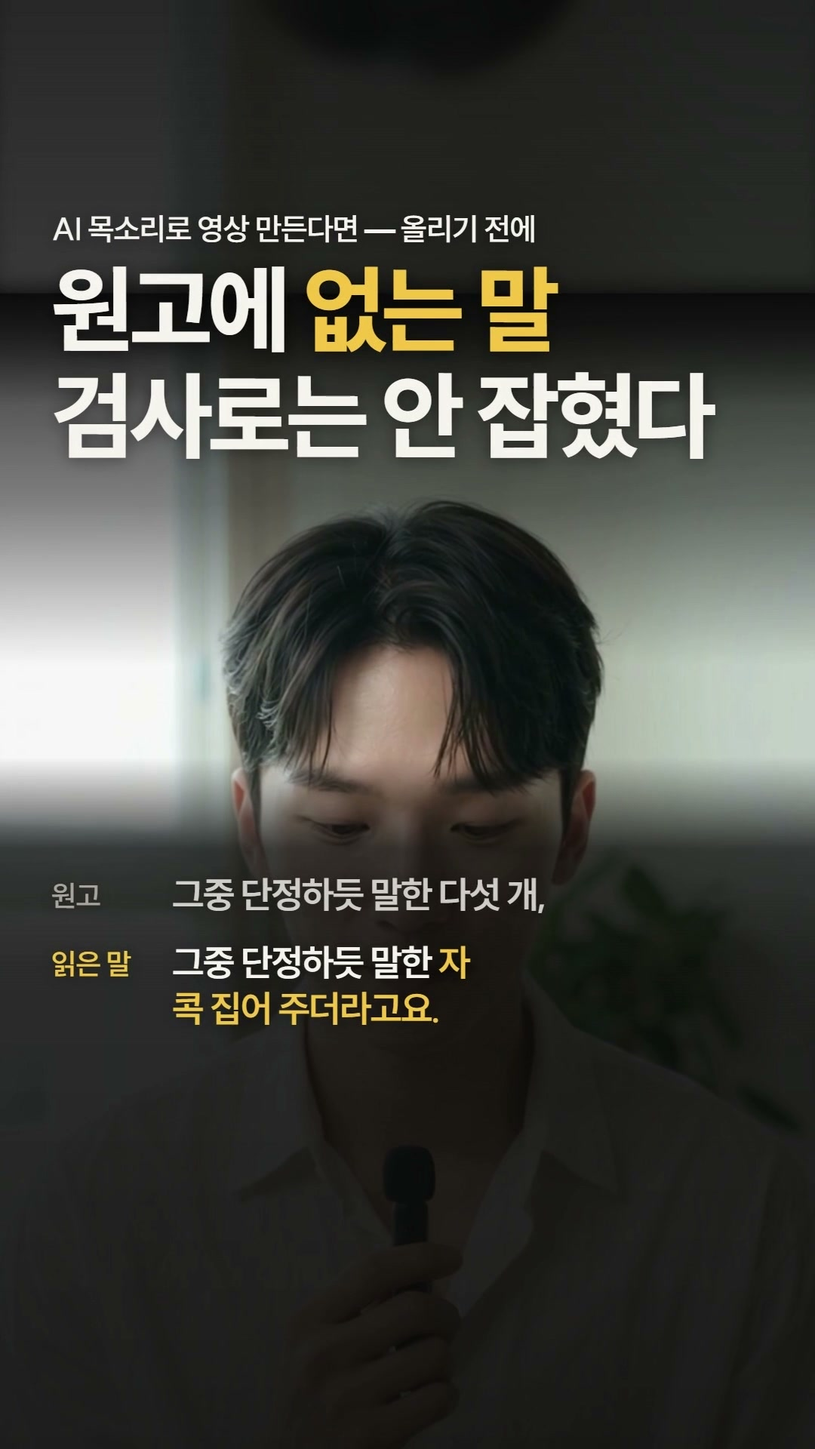
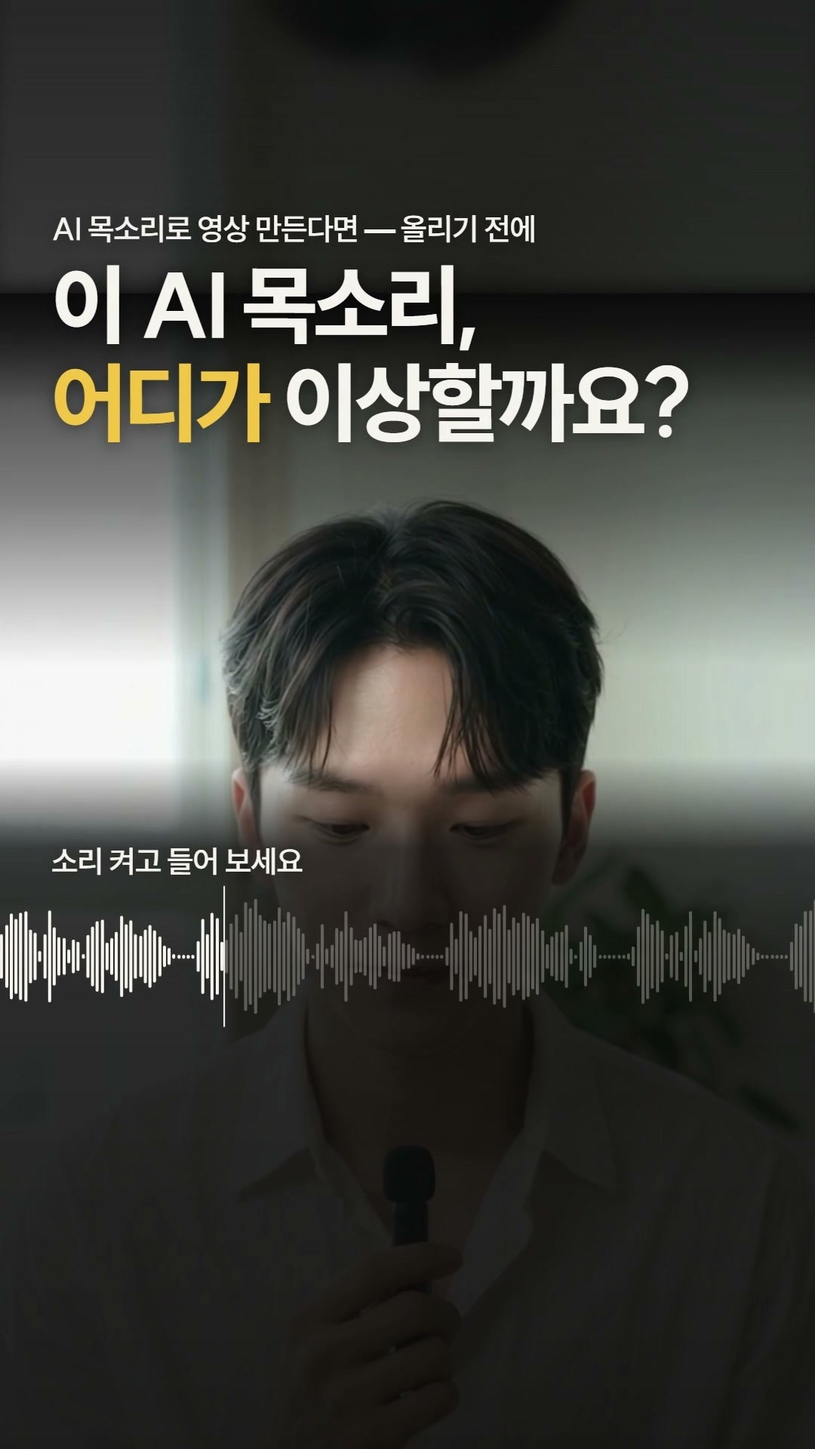
feat(yuhobuilds 11-09 · 11-11 짜임 다시 · 11-03): 유호님 「짜임 다시」 — 11-09는 처음 5초 귀 시험(그 소리를 그대로 들려주고 「어디가 이상할까요?」)과 원고 줄 위로 들리는 말이 어긋나는 틀린 그림 찾기, 다시 듣기 칸 · 대조 표를 빼고 「긴 원고는 둘로」 까닭을 넣음. 11-11은 「귀를 찌르는 소리?」 뒤에 그 편의 실제 소리 2.1초를 재생선과 함께 들려주고 나머지 셋은 결론 말만 남겨 몰아침. 다시 시험: 11-09 이해 4·4 · 재미 3·3, 11-11 재미 3·3, 저장 · 바

Changed region(s): [[0.0611, 0.1875, 0.8861, 0.3438], [0.0, 0.5625, 0.7333, 0.7188], [0.7639, 0.625, 1.0, 0.6875]]

diff --git a/docs/마케팅/기획장부/이해시험_기록.md b/docs/마케팅/기획장부/이해시험_기록.md
@@ -12,8 +12,8 @@
 | 11-03 | LAB 두 채널 | E21 「-지 마」 간체(샤오훙수) · 버마어(틱톡 @synklab.mm) 판 — 소리는 한국어 그대로, 뜻 줄 · 이야기 자막만 그 나라 말 — **관문 못 넘음, 올림** | 간체 이해 4 · 3 · 4 · 재미 4 · 4 · 4, 버마어 이해 3 · 3 · 3 → 자막 키움 · 쪽지 낱말 고친 2판 sonnet 4 · 재미 4 | 간체 셋 다 끝까지 · 저장. 셋이 같이 짚은 「먹어」로 바뀌는 까닭은 영어 판과 같이 남음. 버마어 1판 sonnet 0.1~0.8 · 14.6~17.4초 넘김 → 2판 끝까지. haiku 같아 보임 둘 | 닫힘 — 재미 4가 이어지는 이야기 편은 말 없는 판으로도 옮겨 간다 |
 | 11-03 | LAB 몽골 | M27 「입을 땐 넷, 벗을 땐 하나 — 벗어요」(오마주 같은분야 HY6_V4ECnpg, 나란히 맞음 · 다르게 셋) — **관문 못 넘음, 올림(v7)** | 네 판: 이해 4 · 4 · 4 → 4 · 4 · 4 → 4 · 4 · 4 → 4 · 4 · 3, 재미 3 · 3 · 3 → 3 · 3 · 4 → 3 · 4 · 3 → 3 · 3 · 3, 볼 이유 이야기 · 4 · 아님 내내 | 답 1 다 맞음 · 저장. 넘김은 G 9.4 · 11.9초(단어 나열 구간)뿐. 걸린 것은 재미 · ⑧ haiku 같아 보임. 첫 컷 · ✕ 칸 · 눈길을 장면으로 고침(장화를 뒤집어씀 · 모자가 눈을 덮음 · 벌렁) | 닫힘 — 관문이 못 맞힌 축(M18 · M19)이라 72시간을 본다 |
 | 11-03 | LAB 영어 | E20 「There's no F in Korean — 피오나 · 빅터 · 자라(거북이) · 밥」(오마주 같은분야 ABi9-hza5Ks, 나란히 맞음 · 다르게 셋) — **관문 못 넘음, 올림(v9)** | 여섯 판: 이해 4 · 3 · 3 → 4 · 4 · 4 → 4 · 4 · 4 → 4 · 4 · 4 → 5 · 4 · 4 → 4 · 3 · 3, 재미 3 · 3 · 3 → 3 · 4 · 3 → 3 · 3 · 3 → 3 · 4 · 3 → 3 · 3 · 3 → 4 · 3 · 3, 볼 이유 이야기 · 3 → 3 → 4 → 3 → 3 → **4** · 아님 | 답 1 다 맞음 · 넘김은 결과 뒤뿐. 걸린 것은 ⑧ haiku 같아 보임. 시소 고리(셋) → 떨어질 때 처음 보임, 빅터 되풀이 → 머리 치기 · 당김, 끝이 식음 → 밥 · 너는? | 닫힘 — 볼 이유 심사가 짚은 대로 끝에 장면을 더할수록 올랐다 |
-| 11-03 | yuhobuilds | 11-09 AI 목소리 되풀이(진행자 · 이마 주름 없는 판 · 오마주 KojyBLpl64U, 같은 날 [미학 판](yuhobuilds.md#presenter-look-20261103)으로 다시 — v8) — **관문 못 넘음** | 첫 판 v6 이해 4 · 3, 재미 3 · 3, 볼 이유 3 → 미학 판 v8 이해 4 · 3, 재미 2 · 2, 볼 이유 2 · 「AI 진행자로 읽힘」 처음 예 → [저장할 한 장](yuhobuilds.md#save-card-20261103) v9 이해 4 · 3, 재미 3 · 3, 볼 이유 3 · 슬롭 아님 · 아니오, 바로 할 수 있는 것 「3단계 점검」 둘 다 → v10 같음 · 임팩트 2 | 끝까지 둘 · 재미 · 볼 이유 — 「쓸모는 있는데 놀라움 · 여운이 약함」 | 처음으로 「AI 진행자라서 넘기나 — 아니오」. 다음 판 후보: 두 소리를 붙여 들려주고 맞혀 보게 |
-| 11-03 | yuhobuilds | 11-11 AI 검수 다섯(진행자 · 이마 주름 없는 판 · 오마주 sBawrl18I9g, 같은 날 [미학 판](yuhobuilds.md#presenter-look-20261103)으로 다시 — v7) — **관문 못 넘음** | 첫 판 v5 이해 3 · 3, 재미 2 · 2, 볼 이유 3 → 미학 판 v7 이해 3 · 3, 재미 3 · 3, 볼 이유 3 · 슬롭 아님 → [저장할 한 장](yuhobuilds.md#save-card-20261103) v8 이해 4 · 3, 재미 3 · 3, 볼 이유 3, 저장 둘 · 바로 할 수 있는 것 「재는 법 3가지」 둘 다 → v9 재미 3 · 2(0초에 결론을 먼저 말해 역효과 — 되돌림) · 임팩트 2 | 12~14초 · 18초 — 같은 꼴이 다섯 번 되풀이돼 셋째부터 짐작됨 | 다음 판 후보: 셋째부터 빠르게, 하나는 실제 소리 들려주기 |
+| 11-03 | yuhobuilds | 11-09 AI 목소리 되풀이(진행자 · 이마 주름 없는 판 · 오마주 KojyBLpl64U, 같은 날 [미학 판](yuhobuilds.md#presenter-look-20261103)으로 다시 — v8) — **관문 못 넘음** | 첫 판 v6 이해 4 · 3, 재미 3 · 3, 볼 이유 3 → 미학 판 v8 이해 4 · 3, 재미 2 · 2, 볼 이유 2 · 「AI 진행자로 읽힘」 처음 예 → [저장할 한 장](yuhobuilds.md#save-card-20261103) v9 이해 4 · 3, 재미 3 · 3, 볼 이유 3 · 슬롭 아님 · 아니오, 바로 할 수 있는 것 「3단계 점검」 둘 다 → v10 같음 · 임팩트 2 → [짜임 다시](yuhobuilds.md#impact-from-story-20261103) v12 이해 4 · 4, 재미 3 · 3, 볼 이유 2, 임팩트 2(「소재가 바뀌어야」) | 끝까지 둘 · 재미 · 볼 이유 — 「쓸모는 있는데 놀라움 · 여운이 약함」 | 처음으로 「AI 진행자라서 넘기나 — 아니오」. 다음 판 후보: 두 소리를 붙여 들려주고 맞혀 보게 |
+| 11-03 | yuhobuilds | 11-11 AI 검수 다섯(진행자 · 이마 주름 없는 판 · 오마주 sBawrl18I9g, 같은 날 [미학 판](yuhobuilds.md#presenter-look-20261103)으로 다시 — v7) — **관문 못 넘음** | 첫 판 v5 이해 3 · 3, 재미 2 · 2, 볼 이유 3 → 미학 판 v7 이해 3 · 3, 재미 3 · 3, 볼 이유 3 · 슬롭 아님 → [저장할 한 장](yuhobuilds.md#save-card-20261103) v8 이해 4 · 3, 재미 3 · 3, 볼 이유 3, 저장 둘 · 바로 할 수 있는 것 「재는 법 3가지」 둘 다 → v9 재미 3 · 2(0초에 결론을 먼저 말해 역효과 — 되돌림) · 임팩트 2 → 짜임 다시 v10 이해 3 · 3, 재미 3 · 3, 볼 이유 3, 임팩트 2 | 12~14초 · 18초 — 같은 꼴이 다섯 번 되풀이돼 셋째부터 짐작됨 | 다음 판 후보: 셋째부터 빠르게, 하나는 실제 소리 들려주기 |
 | 11-02 | yuhobuilds | Y30 「남의 영상, 조회 1위를 따라 하려다 — 507만 회에 좋아요 58개」(진행자 형식 S42 첫 편 · 오마주 같은분야 oxRD_YX2vEQ, 나란히 다섯 항목 통과) — **관문 못 넘음, 올림(v11)** | 세 판(v6 · v8 · v9): 이해 4 · 3 → 4 · 3 → 4 · 3, 재미 3 · 3 내내, 볼 이유 3 · 슬롭 아님 내내 | 넘김 없음(v9 둘 다 끝까지). 걸린 까닭: 「쓸모 있는 기준이지만 저장만 하고 여운 · 놀라움 없음」, 20~22초 정리가 비교 판의 되풀이. 같이 짚어 고친 것 — 「광고 노출?」 근거(→ 「9만 명이 봐야 ♥ 1개」) · 「약 2천 회」 뜻 · 안 온 탭. **볼 이유 심사관이 세 판 모두 「AI 진행자로 읽혀 넘기고 싶다」(매끈한 아이돌 얼굴 · 오려 붙인 듯)** — 진행자 형식에서 처음 재 본 물음 | 72시간 성과를 옛 형식 편과 견준다 · 진행자 얼굴 결은 유호님께 보고 |
 | 11-02 | LAB 영어 | E21 「-지 마 = don't — 먹지 마 · 입지 마 · 열지 마 … 가지 마」(오마주 같은분야 RqduGlTXlV8, 나란히 맞음 · 다르게 넷 · 몽골판 M22와 같은 이야기) — **관문 못 넘음, 올림(v6)** | 일곱 판(v2 · v4~v8): 이해 4 · 2 → 4 · 3 → 3 · 3 → **4 · 4** → 4 · 3 → 4 · 3, 재미 4 · 3 → 3 · 3 → 3 · 2 → **4 · 4** → 4 · 3 → 4 · 4, 볼 이유 일곱 번 다 이야기 · 4 · 아님(GPT 크레딧 없음) | 넘김은 v4 haiku 14~16초 · v5 둘 다 6~9초(저녁 자막을 빼고 그림만 둔 판) · v7 haiku 7~9초, 올린 v6은 둘 다 끝까지. 걸린 것은 끝 반전의 까닭(「먹어」는 누구 말 · 왜 바뀌나 — 판마다 둘이 같이 짚음)과 haiku 9번 같아 보임(말풍선 세 줄 · 끝 한 낱말 카드). 같이 짚어 고친 것: 머리 글 · 소파 → 앞치마 · 「= don't」 딱지 → 색 짝 · 쪽지에서 커져 나오는 「먹지 마 → 먹어」 · 처음부터 그의 가방 · 외투 | 올림. 볼 이유 심사(opus)는 「자막으로 때우지 말고 보여라」, 정지 그림 시험관(haiku)은 그림만 둔 판에서 바로 떨어졌다 — 이야기 편은 짧은 자막 한 줄 + 보여 주는 컷을 같이 둔다. 정지 그림 시험은 2초 간격이면 1~2초짜리 반전 카드를 놓친다 — 반전이 있는 편은 처음부터 `--컷` |
 | 11-02 | LAB 몽골 | M24 「물고기 = загас」(영어 편 E22 그림 · 소리 나눠 씀 · 오마주 형식만 dhON-w9e9rI, 나란히 맞음 · 다르게 다섯) — **관문 못 넘음, 올림(v10)** | 여섯 판: 이해 4 · 2 → 4 · 3 → 4 · 3 → 4 · 3 → 4 · 2 → 4 · 3, 재미 3 · 3 → 3 · 3 → 3 · 3 → 3 · 4 → 3 · 3 → 3 · 4, 볼 이유 여섯 번 다 이야기 · 3 · 아님(GPT 크레딧 없음) | 넘김은 결과(5.9초) 앞 sonnet 3~5초(v8 · v10) · 나머지는 결과 뒤나 끝까지. 걸린 것은 「усны мах?」 물음(둘, v3 · v6 — 「글자 그대로: … / 진짜 뜻: ЗАГАС」로 풀어 씀), 끝 반전의 뜻(둘 — 작별 · 하트 → 새 끝 장면 · 꿀꺽 → 「…?!」), haiku 9번 같아 보임 | 올림. 정지 그림 시험은 1초 남짓의 행동 반전(꿀꺽)을 못 잡는다 — 반전은 한 장에도 읽히는 그림(물린 고기가 입에 반쯤 든 장면)으로 1초 넘게 둔다. 같은 이야기의 두 언어 판은 끝을 언어마다 따로 짤 수 있다 |

diff --git a/docs/마케팅/yuhobuilds_목소리되풀이_20261103/기획.md b/docs/마케팅/yuhobuilds_목소리되풀이_20261103/기획.md
@@ -60,6 +60,8 @@
 | v8(미학 판 최종) | 둘 다 같음 | 4 · 3 | 2 · 2 | 14~16초 · 14초 | 계속 봄 둘 | 저장 둘 | 같아 둘(Y30과 위 두 줄 머리 글 · 가운데 진행자 · 말 순서) | 2 · 아님 | **예**(매끈한 얼굴 · 내내 같은 자세) |
 | v9(저장할 한 장) | 둘 다 같음 | 4 · 3 | **3 · 3** | **끝까지** · 14초 | 계속 봄 둘 | 저장 둘(「점검 3단계 카드」) | 달라 · 같아(Y30과 진행자 + 위 머리 글) | **3** · 아님 · 캡처할 장면 있음(30.3초) | **아니오** |
 | v10(남은 말 고침) | 둘 다 같음 | 4 · 3 | 3 · 3 | 끝까지 · 14초 | 계속 봄 둘 | 저장 둘 | 달라 · 같아(Y30) | 3 · 아님 · 캡처 있음 · **임팩트 2** | 아니오 |
+| v11(짜임 다시 — 귀 시험) | 둘 다 같음 | 4 · 3 | 3 · 3 | **3~5초 둘** | 계속 봄 둘 | 저장 둘 | 같아 둘 | 3 · 아님 · 캡처 있음 · 임팩트 2 | 아니오 |
+| v12(귀 시험 둘째 칸을 틀린 그림 찾기로 — 최종) | 둘 다 같음 | **4 · 4** | 3 · 3 | 12초 · 18~20초 | 계속 봄 둘 | 저장 둘 | 달라 · 같아 | **2** · 아님 · 캡처 있음 · 임팩트 2 · 「소재가 바뀌어야」 | 아니오 |
 
 - **같이 짚어 고친 것:** 「받아쓰기」가 뭔지(sonnet · haiku) → 머리 띠 「AI 목소리를 글자로 받아쓰는 중」 · 「구운 · 판」(haiku) → 「만든 소리」로 말 · 글 모두 · 14~22초 어두운 빈 화면(sonnet · haiku · opus) → 진행자를 어둡게 깔고 아치 창 없앰 · 고친 소리를 눈으로 확인 못 함(opus) → 22.15초 그 자리에 고친 소리 + 초록 재생 줄 · 「앞 절반 · 뒤 절반」 뜻(haiku v3) → 「긴 원고는 둘로 나눠서 만들기」 · 끝 두 칸 카드 → 위아래 두 줄.
 - **v5 · v6에서 더 고친 것:** 첫 3초가 빽빽함(sonnet 「넘김」) → 그 문장 한 줄 · 큰 글자 · 실제 소리만 남기고 파형 줄을 뺌 · 18~22초 체크 표가 앞 말을 되풀이함(opus · haiku) → 「이 문장을 잡아낸 건? 길이 ✕ · 음량 ✕ · 깨짐 ✕ · 받아쓰기 ✓」로 바꿈 · 「앞 절반 · 뒤 절반」 → 「긴 원고는 둘로 나눠서 만들기」.
@@ -67,3 +69,4 @@
 - **미학 판에서(v7 · v8):** 「받아쓰기」 뜻 · 파형 두 줄이 무엇을 견주나 · 무엇이 잡아냈나가 흐려졌다(sonnet · haiku v7) → 「AI가 실제로 읽은 말 — 받아쓰기」 · 「고친 소리 / 처음 소리」 + 「없는 말」 이름표 · 「음량 검사 — 차이 없음」 · 「받아쓰기로만 찾았다」로 고쳐 이해 4 · 3으로 돌아옴. 재미 2 · 2, 볼 이유 2는 두 판 모두 「사건이 작다 · 그냥 들으면 지나칠 뻔했다고 스스로 말한다」(opus) — 소재 몫이라 겉으로는 못 올렸다. 시험은 정지 그림 묶음이라 움직임 · 전환의 차이는 이 표에 안 잡힌다. v8 opus가 처음으로 「AI 진행자로 읽힌다」고 했다(2.5~26초 같은 자세) — 같은 C 얼굴 · 같은 진행컷이라 다음 진행자 칸(11-13)에서 자세 · 거리가 다른 컷을 섞는 후보로 남긴다. 「같아 보임」은 S42 · Y30 머리 글 꼴을 따른 결과다.
 - **저장할 한 장에서(v8 → v9):** 「보고 나서 바로 할 수 있게 된 것」이 「받아쓰기 대조 — 도구 · 방법 모름」 · 「없음」에서 둘 다 「올리기 전 3단계 점검」으로 바뀜. 재미 2 · 2 → 3 · 3, 넘김 sonnet 14~16초 → 끝까지, 볼 이유 2 → 3, 「AI 진행자로 넘김」 예 → 아니오 — 시험관은 판마다 새 사람이라 한 판 차이는 흔들림일 수 있다. 남은 말: haiku 「받아쓰기 도구 이름이 없어 바로는 어렵다」, opus 「0~2초 글이 네 겹 — 원고 한 줄 / 읽은 한 줄만」 · 「16초 『검사 다 통과했는데 나갈 뻔』을 3초 안으로」 · 「3단계가 짧아 외워진다」 — 다음 판 후보.
 - **v10에서 고친 것(11-03 유호님 「남은거 전부 해결하고 다시 테스트」):** 첫 장면을 원고 한 줄 / 읽은 한 줄 두 줄로 줄이고 없는 말만 버터(opus v9 「글 네 겹」) · 머리글 둘째 줄을 「검사로는 안 잡혔다」로 — 손해를 3초 안으로(opus v9) · 없는 말이 끼어드는 순간 판이 1.05배 당겨지고 쿵(한 방) · 끝 카드 1단계 밑에 「회의록 · 받아쓰기 앱에 소리 파일을 올리면 된다」(haiku v9 「도구를 모름」). 결과는 v9와 거의 같음 — 이해 4 · 3, 재미 3 · 3, 볼 이유 3. 새로 물은 임팩트(눈 · 귀에 박히는 한 장면)는 2(opus 「글자 카드와 파형의 반복이라 끝나고 남는 그림이 없다」 · 「8~12초 같은 문장을 네 번 돌려 보여 줌 — 왜 생기고 왜 나누면 고쳐지는지로 바꿔야」). 유호님도 「뭔가 임펙트가 없어」 — 남은 숙제는 겉 손질이 아니라 짜임이다.
+- **짜임 다시(11-03 유호님 「짜임 다시」 — 「뭔가 임펙트가 없어」):** 말 덩어리를 다시 배치했다. 처음 5초는 그 소리(3.38~8.05초 「…콕 집어주더라고요. 그중 단정하듯 말한 자 콕 집어주더라고요. 그중 단정하듯 말한 다섯 개」)를 그대로 들려주는 귀 시험 「이 AI 목소리, 어디가 이상할까요?」, 둘째 칸은 원고 한 줄 위로 들리는 말이 글자로 붙다가 없는 말이 노랗게 튀는 틀린 그림 찾기(소리 없이 보는 사람 몫, v11에서 검정 파형만 둔 칸이 셋 다 「3~5초 넘김」). 이어서 정답(받아쓰기, 끼어드는 한 방) → 진행자 「AI 목소리로 원고를 읽혔는데」(F1 앞 1.9초만) → 원고엔 딱 한 번 → 겨우 1.1초 · 검사 다 통과 · 「맨 처음 들으신 그 소리」 → 받아쓰기로만 찾았다(줄 하나) → 긴 원고는 둘로(「되풀이가 난 두 번 다, 180자 넘는 원고를 한 번에 읽혔을 때」 — 187자 · 333자) → 고친 소리 → 끝 말 → 저장할 한 장. 옛 「또 읽었다」 다시 듣기 칸 · 세 줄 대조 표는 뺐다(opus v10 「같은 문장 네 번」). 원본 반전 자리(우리 길이로 12.9초)는 「겨우 1.1초」가 서는 박. 결과: 이해 4 · 4(이 편 가장 높음) · 재미 3 · 3 · 저장 둘 · 바로 할 것 3단계는 지켰고, 임팩트는 2 그대로. opus v12 「소재가 바뀌어야 — 문장 하나가 1초 되풀이된 일은 뜻도 손해도 작아서 어떤 그래픽을 얹어도 사고로 안 느껴진다 · 없는 말이 숫자 · 이름 · 뜻을 뒤집어 실제로 문제가 될 뻔해야 박힌다」. 시험은 정지 그림 · 말 글이라 귀 시험의 소리 효과는 점수에 안 잡힌다. `시험/말.txt`를 새 순서 · 시작 초로 고침.

diff --git a/docs/마케팅/기획장부/yuhobuilds.md b/docs/마케팅/기획장부/yuhobuilds.md
@@ -23,6 +23,7 @@
   - **이마 주름 없이(11-03 유호님 「내 얼굴이 너무 늙어보여」 → 「승인사진 c에서 말할 때 주름만 안 지게 · 주름 빼고는 다 맘에 들었어」):** 승인 사진 C는 그대로이고, Flow 지시문에서 「Real skin texture」를 빼고 「well-rested and freshly groomed · relaxed smooth forehead with no forehead lines」, 「윗얼굴은 가만히 두고 입만 움직인다 · 눈썹을 올리거나 찌푸리지 않는다」를 넣는다. 놀람 · 어리둥절 · 비꼼 같은 연기 낱말은 눈썹을 움직여 주름을 만든다 — 반응 칸도 「고개를 든 채 눈만 내리고, 멈췄다가 눈을 들어 작게 웃는다」로 쓴다. 지시문 틀 `C:/Users/q1212/ego/yuhobuilds-ep-20261103/lib.mjs` facePromptY · round-09.mjs CALM. 받은 판은 이마만 잘라 초마다 본다. 현장 노트 브라우저_게시 11-03 항목.
   - <a id="presenter-look-20261103"></a>**화면 결(11-03 유호님 「좋은데 조금 더 모션그래픽을 활용한다던지 색감을 트렌디하게 … 뭔가 좀 촌스러운느낌이 있어. 미학같은걸 고려 안한느낌」):** 11-09 · 11-11 첫 판은 장면마다 색이 바뀌는 머리 띠(주황 · 빨강 · 초록) · 위 제목 + 아래 상자 카드 · 튀는 팝 · 도장 · 낱말 띠로 카드뉴스 틀이었다. 진행자 편은 이것으로 시작한다 — ① 원래 방 그대로: 머리 위 글 자리는 진행컷을 아래로 내리고 빈 위쪽을 같은 장면 윗부분을 뒤집어 흐리게 채운 뒤 그늘을 깐다. 사람을 오려 흐린 판 위에 얹으면 맹검 심사 둘 다 「AI 아바타 흉상 · 그린스크린 발표자」. ② 검정 · 흰 + 버터 #F5C445 한 곳(그 편에서 짚는 자리에만). ③ 큰 글자가 곧 말(124px 두 줄, x 74 · y 284부터), 줄 단위 28px 올림 + 불투명도 — 마스크로 자르면 반쯤 잘린 글자 프레임이 「깨진 글자」로 읽힌다. ④ 전환은 박 위 컷 + 들어올 때 1.035배 당김, 판은 늘 아주 천천히 다가감(밀어내기 전환은 「키노트 슬라이드」). ⑤ 글꼴은 SUIT 하나, 명조는 원문(원고 · AI 답) 한 곳만, 모노 · 타자기 커서 · 낱말 켜짐 띠 없음. ⑥ 글자는 안전선 x 65~920 · y 269~1428 안(올리기 전 검사). ⑦ 얼굴이 빠지는 근거 장면은 진행자를 화면 아래에 어둡게 깐다. ⑧ 같은 주 진행자 두 편은 첫 · 끝 장면 무대를 다르게(올리기 전 검사 「무대가 지난 편과 같다」). 그림은 [그래프 문법](../../디자인/그래프_문법.md)(양은 빗금 막대, 기준 대비는 편차 점). 본보기 코드 `synk-vendor/yuhobuilds-목소리되풀이-20261103/src/videos.tsx` · `yuhobuilds-검수다섯-20261103/src/videos.tsx`(git 밖). 유호님 확인 전 — 만족 사례가 아니다.
   - <a id="save-card-20261103"></a>**끝은 저장할 한 장(11-03 유호님 「맥락이 좀 없어서 시청자 입장에서 이걸 왜 보고있는지 별로 효과가 없다 … 저장할 한장으로 바꿔서 시험해 보자」):** 최근 편은 결이 매번 「~하세요」 한 줄이고 「어떻게」는 캡션으로 빠져, 시험관이 「바로 할 수 있게 된 것 — 없음 · 방법 모름」, 게시 편 저장 0~3이었다. 기획 「남는 것」을 영상 안의 한 장으로 적는다 — ① 0~3초 맨 위 한 줄에 누구 얘기인지 · 끝에 무엇을 주는지(「AI 목소리로 영상 만든다면 — 올리기 전에」) ② 전에 그대로 뒀으면 생길 손해 한 줄 ③ 끝 4초는 도구 이름 없이 그대로 따라 하는 3단계 한 장(「저장해 두고, …」). 시험(11-03, 말 · 소리는 그대로 화면 글만): 11-09 · 11-11 모두 「바로 할 수 있게 된 것」이 3단계로 바뀌고 저장 넷 중 넷, 11-09는 재미 2 · 2 → 3 · 3 · 볼 이유 2 → 3. 같은 꼴 카드를 매번 쓰면 「같은 틀」로 읽히니(11-11 둘 다 「같아 보임」) 편마다 카드 바탕 · 배치 · 제목 말을 바꾼다. 카드 말은 그 편에서 실제로 한 방법만.
+  - <a id="impact-from-story-20261103"></a>**임팩트는 겉이 아니라 사건에서(11-03 유호님 「뭔가 임펙트가 없어」 → 「짜임 다시」):** 11-09 · 11-11을 미학 판 · 저장할 한 장 · 남은 말 고침 · 짜임 다시(귀 시험 · 실제 소리 한 칸)까지 다섯 판 만들었는데 임팩트(눈 · 귀에 박히는 한 장면)는 매번 2였다. 볼 이유 심사 opus 「소재가 바뀌어야 — 문장 하나가 1초 되풀이된 일은 뜻도 손해도 작다」. 기획 열 칸에서 「무엇으로 이기나」를 적을 때, 그 실화의 잘못이 숫자 · 이름 · 뜻을 뒤집거나 돈 · 시간 · 손님을 실제로 잃을 뻔했는지 먼저 본다 — 아니면 그 실화는 저장할 한 장 몫(쓸모형)으로만 쓰고, 임팩트는 그런 사건을 가진 다른 실화에서 찾는다. 시험관은 정지 그림 · 말 글만 보니 소리로 이기는 장치(귀 시험 · 실제 소리)는 점수에 덜 잡힌다 — 유호님이 소리로 보신 판단을 먼저 본다.
   - **얼굴이 말하는 줄은 짧게:** 처음 · 끝 2~3줄만 얼굴이 말하고, 나머지는 보이스오버 + 실제 화면 · 모션. 목소리에 입을 맞추려고 진행컷의 프레임 시간을 늘이고 줄이므로(S42 `align.py`) 길게 쓰면 어긋남이 쌓인다.
   - **목소리:** 범수(10-29 유호님 「1인칭 목소리는 범수로 해도 이 컨텐츠는 괜찮아」). S42 시안의 Eleven v4 Chris는 무료 계정이라 비상업 검토용이다 — 상업용으로 쓸 길(Eleven 유료 또는 힉스필드 Eleven v4)을 유호님이 정하시면 Chris로 바꾼다([트랙](../../_ops/트랙.md) §1). Flow가 낸 소리는 쓰지 않고 낱말 시간 대조로 맞춘다.
   - **합성:** SAM3로 인물 알파를 뽑아(공용 GPU 차례 — [현장 노트 · 영상](../../현장노트/영상_ffmpeg_자막.md) 「GPU 작업을 줄 없이…」) Remotion에서 큰 글자는 인물 뒤, 설명 카드는 앞, 핵심 낱말은 말하는 순간에. 틀은 S42 폴더(`synk-vendor/yuho-presenter-duo-20261102/`)를 편마다 git 밖 `synk-vendor/yuhobuilds-<편 이름>/`으로 복사해 소스 이름 · 대본만 바꿔 쓴다. 렌더 뒤 최종 파일 교체 실패(EPERM)는 [현장 노트 · 영상](../../현장노트/영상_ffmpeg_자막.md) 「Remotion이 100% 뒤…」. 게시본 MP4만 편 폴더로 가져온다(`*.mp4`는 git이 무시한다).

diff --git a/docs/마케팅/yuhobuilds_검수다섯_20261103/기획.md b/docs/마케팅/yuhobuilds_검수다섯_20261103/기획.md
@@ -59,6 +59,7 @@
 | v7(미학 판 최종) | 둘 다 같음 | 3 · 3 | 3 · 3 | 14~18초 · 28~30초 | 계속 봄 둘 | 안 함 · 공유 | 같아 둘(11-09 미학 판과 위 두 줄 머리 글 · 말 순서 · 28초 크림 화면) | 3 · 아님 | 아니오 — 0~3초는 큰 글자가 먼저 읽히고 얼굴은 아래 |
 | v8(저장할 한 장) | 둘 다 같음 | **4** · 3 | 3 · 3 | **끝까지** · 12초 | 계속 봄 둘 | **저장 둘**(「재는 법 3가지」 카드) | 같아 둘(11-09와 맨 위 한 줄 · 끝 「저장해 두고」 번호 카드 · 말 순서) | 3 · 아님 · 캡처할 장면 있음(40.5초) | 아니오 |
 | v9(남은 말 고침) | 둘 다 같음 | 4 · 3 | 3 · **2** | 6~8 · 28초(반반) · 10~12초 | 계속 봄 둘 | 저장 둘 | 같아 둘(11-09와 무대 · 머리 글 · 끝 카드) | 3 · 아님 · 캡처 있음 · **임팩트 2** | 아니오 |
+| v10(짜임 다시 — 실제 소리 한 칸 · 최종) | 둘 다 같음 | 3 · 3 | 3 · 3 | 끝까지(10~18초 위험) · 10~12초 | 계속 봄 둘 | 저장 둘 | 같아 둘(11-09와 머리 글 · 무대 · 끝 카드) | 3 · 아님 · 캡처 있음 · 임팩트 2 | 아니오 |
 
 - **같이 짚어 고친 것(v3):** 「지적한 줄 65% · 다른 줄들 43~76%」 뜻을 모름(sonnet · haiku) → 퍼센트를 빼고 「지적한 문장 · 다른 문장들 · 같은 정도」로 · 「1초 먼저」 검은 칸 글자가 안 읽힘(sonnet · haiku · opus) → 밝은 칸 · 큰 글자 「실제로는 거의 동시」 · 「진동음」 맥락 없음(sonnet · haiku) → 맞힌 둘 카드에 한 줄씩(「다른 편 18초부터 배경음이 비어 있었음」 · 「휴대폰 진동 소리가 대사와 겹침」) · 「무슨 도구로 재는지 없음」(sonnet · haiku) → 가져갈 것 카드를 「같은 목소리 다른 문장과 크기 · 파형 견주기」 · 「원본 화면을 확대해서 보기」로 · 「00:29」가 무엇인지(sonnet) → 「29초」 · 「영상 몇 초에 뭐가 틀렸나」.
 - **한 시험관이 짚어 고친 것(v3):** 여는 말이 지난 편 머리 글과 같은 꼴(haiku ⑧) → 「AI 검수가 제 영상에서, …」로 바꿔 목소리 · 진행컷 다시 · 크림 바탕(opus) → 방 배경.
@@ -69,3 +70,4 @@
 - **미학 판에서(v6 · v7):** 이해 4 · 3 → 3 · 3, 재미 2 · 3 → 3 · 3, 볼 이유 3(옛 판과 같음) · 슬롭 아님 · AI 진행자로 넘기지 않음. 고친 것: 6~10초 검은 화면에 목록만(haiku v6) → 아래 창에 진행자 · 「무슨 그래프인지」(sonnet v6) → 「다른 문장들 범위」 이름표 · 높이 점선 · 빗금 막대 · 19초 글 겹침(Fable) → 근거 장면 동안 목록을 쉬게 · 28~30초 크림 화면이 비어 멈춘 듯 · 11-09 종이와 같아 보임(haiku v6 · v7) → 검정 무대 + 아래 진행자(v7 뒤 고침, 다시 시험 안 함). 못 고친 것: 10~18초 다섯 근거가 같은 틀로 2초씩 지나가 폰에서 다 못 읽음(opus v6 · v7 — 「지어내지」 확대 하나를 크게, 나머지는 빨리) · 「무슨 영상의 몇 초인지」 맥락 — 말 · 소리 길이가 정해져 있어 다음 판 후보로 남긴다. 시험관 셋 모두 `시험/말.txt`에 줄 앞 초가 없다고 적었다(질문지는 「줄 앞 숫자는 시작 초」).
 - **저장할 한 장에서(v7 → v8):** 「바로 할 수 있게 된 것」이 「거의 없음 · 없음」에서 둘 다 「재는 법 3가지」로, 저장 안 함 · 공유 → 저장 둘, 이해 3 · 3 → 4 · 3. 재미 · 볼 이유는 그대로(3). 새로 생긴 것: 11-09와 끝 카드 · 맨 위 한 줄 꼴이 같아 둘 다 「같아 보임」 — 저장할 한 장을 계정 틀로 굳힐 때 편마다 카드 꼴(바탕 · 배치 · 제목 말)을 바꾸는 것이 다음 숙제. 남은 말: opus 「0~1.5초 『초까지 짚었다』가 AI 칭찬처럼 읽힘 — 『다섯 개, 재 보니 다 틀림』 뒤집기를 먼저 약속」, haiku 「10초부터 그래프가 빽빽해 12초 넘김」.
 - **v9에서 고친 것(11-03 유호님 「남은거 전부 해결하고 다시 테스트」):** 맨 위 한 줄 · 끝 카드 꼴을 11-09와 다르게(「AI 검수 받고 고치기 전에, 이것부터」 · 검정 위 위치 / 소리 / 글자 갈래 이름) · 소리 줄에 「편집 프로그램 파형에서」 · 목록 「내 영상들」 · 다섯 줄을 줄 단위로 · 반응 장면에서 다섯 줄이 박마다 하나씩 그어지는 한 방 · AI 답 원문은 첫째에만(근거를 크게) · 깨짐 정도 축 「덜 깨짐 ↔ 더 깨짐」(값이 클수록 깨짐 — Y22 깨짐 숫자) · 「다른 영상 하나」 · 진동이 겹친 자리 표시(E17 실제 소리에서 그림 창 11.45~14.2초를 찾아 말 · 진동 덩어리 .46~.80). **역효과 하나:** 0초 머리글을 opus v8 말대로 「재 보니 다 아니었다」(결론 먼저)로 바꿨더니 opus · haiku 둘 다 「결론을 0초에 말해 뒤는 확인뿐」, haiku 재미 3 → 2 → 「AI가 단정한 5개, 재 보면 맞을까?」(궁금증, 결론 숨김)로 되돌려 최종(이 판은 다시 시험 안 함). 임팩트 2(opus 「다섯 줄이 그어진 목록이 그나마 남지만 글자 한 장」 · 「귀를 찌르는 효과음만 실제 소리를 들려주며 견주고 나머지는 빨리」). 「같아 보임」은 두 편이 같은 주 같은 진행자 형식이라 남는다.
+- **짜임 다시(11-03 유호님 「짜임 다시」):** 둘째 지적 「귀를 찌르는 소리?」 뒤에 그 편의 실제 소리 2.1초(Y23 33.95~36.05초 — 효과음 34.0~35.1초는 −22~−26dB, 말소리 35.3~36.1초는 −12~−16dB)를 그대로 들려주고 재생선이 파형을 따라 그린 뒤 「말소리보다 작았고」 — 이 칸만 4.6초로 키움(볼 이유 심사 v9). 셋째~다섯째는 결론 말(받아쓰기로 자른 「앞 문장이랑 같았고」 · 「확대하니 맞게 써 있었고」 · 「거의 딱 맞았어요」)만 남겨 1.3~1.5초씩 몰아침, 그 뒤 시간은 그대로. 0초 머리글은 「AI가 단정한 5개, 재 보면 맞을까?」. 결과: 재미 3 · 3, 저장 둘, 바로 할 것 3가지 유지, 임팩트 2 그대로 — opus 「11.6초 실제 소리는 짧고 작아서 귀에 남지 않는다(작다는 게 요점이라 그렇다) · 다섯이 전부 영상 편집 소리 얘기라 남의 일」. 시험은 소리를 못 들어 실제 소리 칸은 점수에 덜 잡힌다. `시험/말.txt`를 새 순서 · 시작 초로 고침.

diff --git a/docs/_ops/트랙.md b/docs/_ops/트랙.md
@@ -47,7 +47,7 @@ synk-town 운영은 11-01 실제 대조 v45 — 0555a4c7(싱크타운 첫 C4 후
 ## 1. 유호님 차례 — 한곳에 모음
 
 - **회사 서버 결제 unmet23로 잠시 — 11-12까지 되돌리기(11-02, 유호님 허락 문장 필요):** 11-02 21시 `synk-bake-unmet27` 결제를 unmet23 결제 계정(…F1B948, 무료 크레딧 83,456원 · **11-13 만료**)으로 옮겼다(VM 셋 RUNNING · health 200 그대로, 기록 `.tmp/company-billing-unmet23-20261102/`). **11-12에** unmet27(…40F3CB, 12-07 만료) 또는 77yuhbs(…CE0D07, 월 Ultra 크레딧)로 옮긴다 — 어느 쪽인지와 결제 변경 허락을 유호님이 그 창에서 한 문장으로. unmet27이면 `node .tmp/company-billing-unmet23-20261102/switch.cjs back-unmet27`, 77yuhbs면 먼저 그 결제 계정에 unmet27을 결제 계정 사용자로(재인증은 유호님). 예약 작업은 판정기가 막아 이 줄로 둔다.
-- **yuhobuilds 형식 시험 진행자 칸 둘 완성(11-03):** 11-09 [AI 목소리 되풀이](../마케팅/yuhobuilds_목소리되풀이_20261103/기획.md) · 11-11 [AI 검수 다섯](../마케팅/yuhobuilds_검수다섯_20261103/기획.md) — 둘 다 「완성(관문 못 넘음 — 재미 · 볼 이유)」, 얼굴은 이마 주름 없는 판. 같은 날 유호님 「촌스러운 느낌」으로 두 편 모두 미학 판으로 다시 만들어 최종.mp4 교체(장부 머리말 [화면 결](../마케팅/기획장부/yuhobuilds.md#presenter-look-20261103), 올리기 전 검사 고칠 것 0) — 유호님 확인 전. 이어서 끝을 [저장할 한 장](../마케팅/기획장부/yuhobuilds.md#save-card-20261103)으로 바꿔 시험(두 편 모두 「바로 할 수 있는 것」이 3단계로) · 최종.mp4 교체. 이어서 남은 시험관 지적을 다 고쳐 다시 시험(11-09 v10 · 11-11 v9) — 쓸모 · 이해는 유지, 임팩트(눈 · 귀에 박히는 한 장면)는 둘 다 2라 유호님 「임펙트가 없어」와 같음. 다음은 겉이 아니라 짜임(직접 들어 보게 하는 장면 · 되풀이 대신 까닭). 게시는 슬롯 날 14시 작업. 남은 칸 11-10 · 11-12는 같은분야 원본으로(장부 표), 11-13 진행자 칸도 이마 주름 없는 지시문으로.
+- **yuhobuilds 형식 시험 진행자 칸 둘 완성(11-03):** 11-09 [AI 목소리 되풀이](../마케팅/yuhobuilds_목소리되풀이_20261103/기획.md) · 11-11 [AI 검수 다섯](../마케팅/yuhobuilds_검수다섯_20261103/기획.md) — 둘 다 「완성(관문 못 넘음 — 재미 · 볼 이유)」, 얼굴은 이마 주름 없는 판. 같은 날 유호님 「촌스러운 느낌」으로 두 편 모두 미학 판으로 다시 만들어 최종.mp4 교체(장부 머리말 [화면 결](../마케팅/기획장부/yuhobuilds.md#presenter-look-20261103), 올리기 전 검사 고칠 것 0) — 유호님 확인 전. 이어서 끝을 [저장할 한 장](../마케팅/기획장부/yuhobuilds.md#save-card-20261103)으로 바꿔 시험(두 편 모두 「바로 할 수 있는 것」이 3단계로) · 최종.mp4 교체. 이어서 남은 시험관 지적을 다 고쳐 다시 시험(11-09 v10 · 11-11 v9) — 쓸모 · 이해는 유지, 임팩트(눈 · 귀에 박히는 한 장면)는 둘 다 2라 유호님 「임펙트가 없어」와 같음. 이어서 짜임 다시(11-09 귀 시험 · 틀린 그림 찾기, 11-11 실제 소리 한 칸 · 나머지 몰아치기) — 이해 · 쓸모는 지키고 임팩트는 여전히 2(심사관 「소재가 바뀌어야」), 장부 머리말 [임팩트는 사건에서](../마케팅/기획장부/yuhobuilds.md#impact-from-story-20261103). 최종.mp4 교체. 게시는 슬롯 날 14시 작업. 남은 칸 11-10 · 11-12는 같은분야 원본으로(장부 표), 11-13 진행자 칸도 이마 주름 없는 지시문으로.
 - **yuhobuilds 형식 시험 판정 — 11-17 밤 보고(11-02 예약, Claude 몫):** 11-09~11-14 여섯 칸(진행자 3 · 옛 형식 3, [장부 「형식 A/B 시험」](../마케팅/기획장부/yuhobuilds.md#format-ab-20261109))의 인스타 72시간 숫자로 [결정](결정.md) 11-02 「진행자 형식 시험 셋」에 미리 적은 기준대로 판정해 보고한다(마지막 칸 11-14 21:00 게시의 72시간 = 11-17 21:00 — 그 숫자가 게시/성과.json에 들어온 뒤, 늦어도 11-18). 남은 일: 판정 결과를 이 줄과 결정 표에 적고 장부 머리말 「얼굴 · 목소리」를 굳히거나 옛 형식으로 돌린다. 진행자 얼굴은 [눈가림 시험](../마케팅/yuhobuilds_진행자얼굴시험_20261102/시험.md) 뒤 유호님 「C 짧은 머리」(11-02 밤, 결정 표 — B 콘로우는 「나같지 않아」로 버림).
 - **yuhobuilds 진행자 목소리 — 상업용 길 정하기(11-02, 유호님 차례):** S42 시안의 Eleven v4 Chris는 무료 계정이라 비상업 검토용이다. 매일 제작은 그때까지 범수로 만든다. Chris로 가려면 ① Eleven 유료 플랜(돈) ② 힉스필드 Eleven v4(크레딧 — 드라마 Julian · Elena가 쓰는 길, Chris 프리셋이 있는지는 고르시면 확인) 가운데 하나를 정해 주시면 된다. Chris를 따로 들어 보고 고르신 기록은 없다(11-01 오디션 Julian · Fish · Gemini는 셋 다 「AI 같다」).
 
